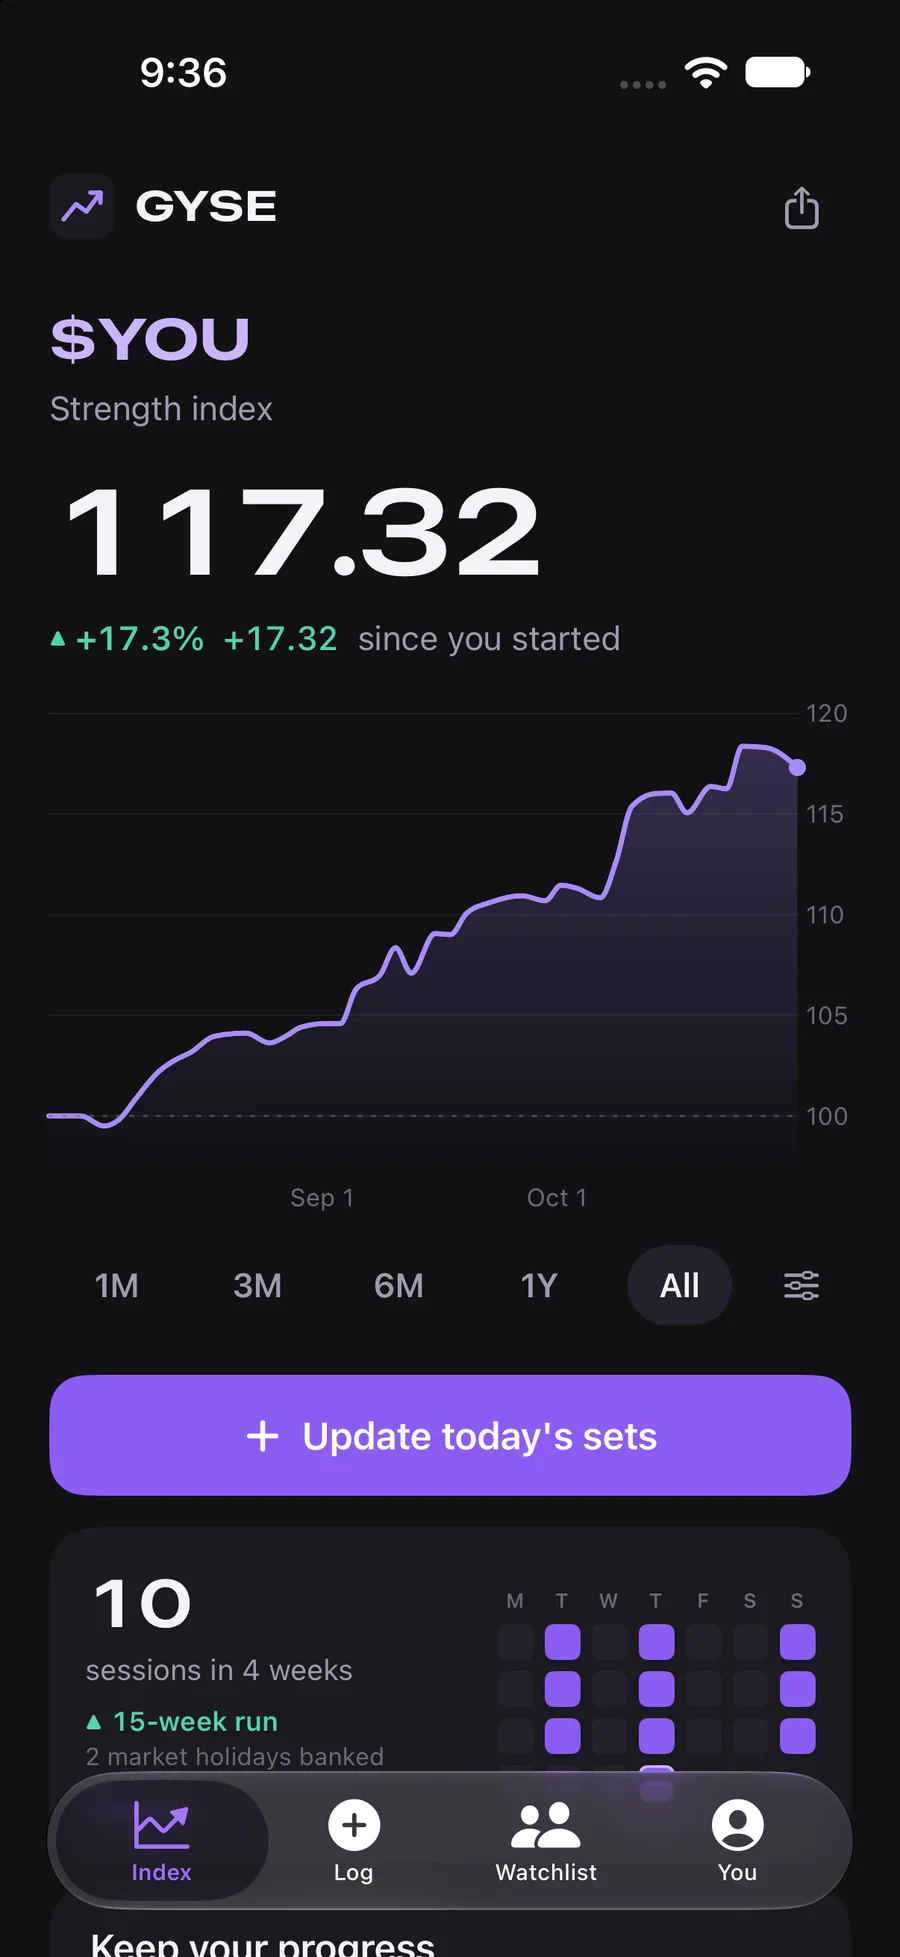
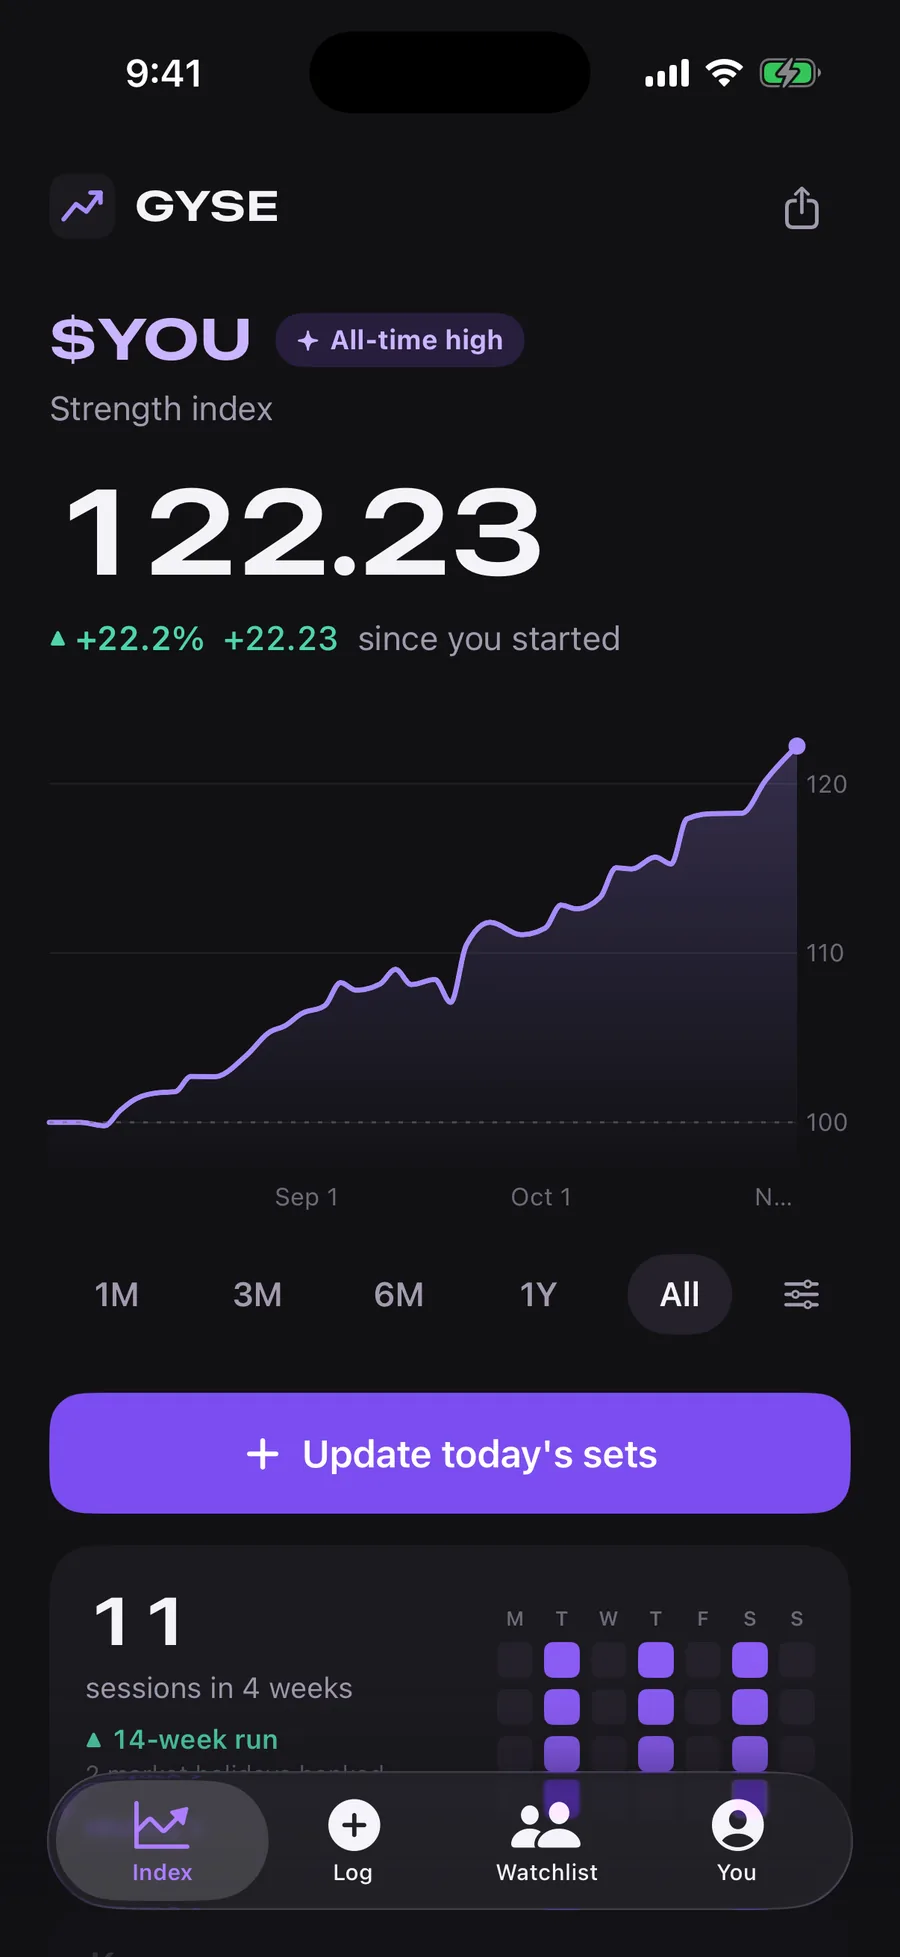
Homepage: new app screenshots with the graphite design
- index-demo, log-demo and week-card replaced with fresh simulator
  captures (Screenshots workflow in gyse-ios): graphite surfaces and
  the framed share card.
- Hero numbers match the new index screen: background 122.23, "New
  record 87.5 kg x 8", "Next target 87.5 kg x 9 +2.6%".
- Alt text updated for the index and week card images.

Claude-Session: https://claude.ai/code/session_01MM5CTP6sNrsZ92SZiHTkQQ

diff --git a/index.html b/index.html
@@ -343,15 +343,15 @@ a.bar-note { text-decoration: none; color: var(--text); }
     </div>
     <div class="stage">
       <div class="glow" aria-hidden="true"></div>
-      <div class="ghost num" aria-hidden="true">117.32</div>
+      <div class="ghost num" aria-hidden="true">122.23</div>
       <svg class="line" id="hline" viewBox="0 0 1440 360" preserveAspectRatio="none" aria-hidden="true"></svg>
       <div class="floats" aria-hidden="true">
-        <div class="float f1" data-depth=".22"><span class="rec-i"><svg viewBox="0 0 16 16"><path d="M8 0l1.9 6.1L16 8l-6.1 1.9L8 16l-1.9-6.1L0 8l6.1-1.9z" fill="currentColor"/></svg></span><span><b>New record</b>Bench press · 87.5 kg × 6</span></div>
+        <div class="float f1" data-depth=".22"><span class="rec-i"><svg viewBox="0 0 16 16"><path d="M8 0l1.9 6.1L16 8l-6.1 1.9L8 16l-1.9-6.1L0 8l6.1-1.9z" fill="currentColor"/></svg></span><span><b>New record</b>Bench press · 87.5 kg × 8</span></div>
         <div class="float f2" data-depth=".34"><span class="av">M</span><span><b class="num">$MINA</b>Watching your index</span><span class="fv"><b class="num">103.57</b><em>+3.6%</em></span></div>
-        <div class="float f3" data-depth=".12"><svg class="tg" viewBox="0 0 16 16" fill="none" stroke="currentColor" stroke-width="1.6"><circle cx="8" cy="8" r="5.6"/><circle cx="8" cy="8" r="2"/></svg><span>Next target <b>87.5 kg × 7</b></span><em>+2.8%</em></div>
+        <div class="float f3" data-depth=".12"><svg class="tg" viewBox="0 0 16 16" fill="none" stroke="currentColor" stroke-width="1.6"><circle cx="8" cy="8" r="5.6"/><circle cx="8" cy="8" r="2"/></svg><span>Next target <b>87.5 kg × 9</b></span><em>+2.6%</em></div>
       </div>
       <figure class="phone">
-        <img src="/assets/screens/index-demo.webp" width="900" height="1957" alt="The GYSE index screen: $YOU at 117.32, up 17.3% since day one, with the line climbing from 100" fetchpriority="high">
+        <img src="/assets/screens/index-demo.webp" width="900" height="1957" alt="The GYSE index screen: $YOU at 122.23, up 22.2% since day one, with the line climbing from 100" fetchpriority="high">
       </figure>
     </div>
   </section>
@@ -375,7 +375,7 @@ a.bar-note { text-decoration: none; color: var(--text); }
           <span class="n" aria-hidden="true">3</span>
           <h2>Share your week.</h2>
           <p class="lead">Every week closes with a story card sized for Instagram, showing your ticker, your close and your records.</p>
-          <figure class="shot"><div class="phone"><img src="/assets/screens/week-card.webp" width="900" height="1957" loading="lazy" alt="The weekly story card: $JRLA closed the week at 105.26 with one record"></div></figure>
+          <figure class="shot"><div class="phone"><img src="/assets/screens/week-card.webp" width="900" height="1957" loading="lazy" alt="The weekly story card: $YOU closed the week at 122.23, up 3.4%, with six records"></div></figure>
         </li>
       </ol>
       <div class="follow" aria-hidden="true">
